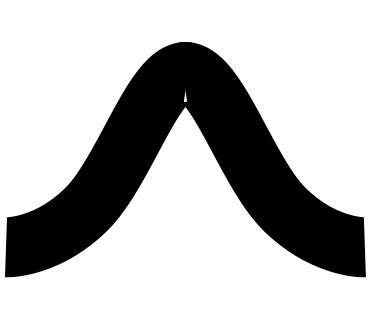
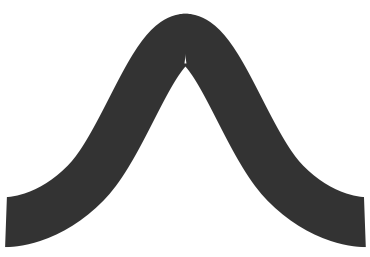
Improved distribution button styling

diff --git a/src/components/metrics/card/editing_pane/distribution-selector.js b/src/components/metrics/card/editing_pane/distribution-selector.js
@@ -30,8 +30,6 @@ export default class DistributionSelector extends Component{
       <div className='DistributionSelector'>
         <DistributionIcon type={'NORMAL'} image={NormalImage} onSubmit={this.props.onSubmit}/>
         <DistributionIcon type={'UNIFORM'} image={UniformImage} onSubmit={this.props.onSubmit}/>
-        <DistributionIcon type={'EXPONENTIAL'} image={ExponentialImage} onSubmit={this.props.onSubmit}/>
-        <DistributionIcon type={'POINT'} image={PointImage} onSubmit={this.props.onSubmit}/>
         <DistributionIcon type={'LOGNORMAL'} image={LogNormalImage} onSubmit={this.props.onSubmit}/>
       </div>
     )

diff --git a/src/components/metrics/card/editing_pane/style.css b/src/components/metrics/card/editing_pane/style.css
@@ -66,12 +66,20 @@
 }
 
 .DistributionIcon img{
-  width: 22px;
-  opacity: 0.8;
+  width: 26px;
+  opacity: 1;
+  position: absolute;
+  left: 0;
+  right: 0;
+  top: 4px;
+  bottom: 0;
 }
 
 .ui.button.DistributionIcon {
-  background-color: $grey-1;
   padding-left: 2px;
   padding-right: 2px;
+  position: relative;
+  height: 26px;
+  width: 26px;
+  padding-top: 0;
 }
